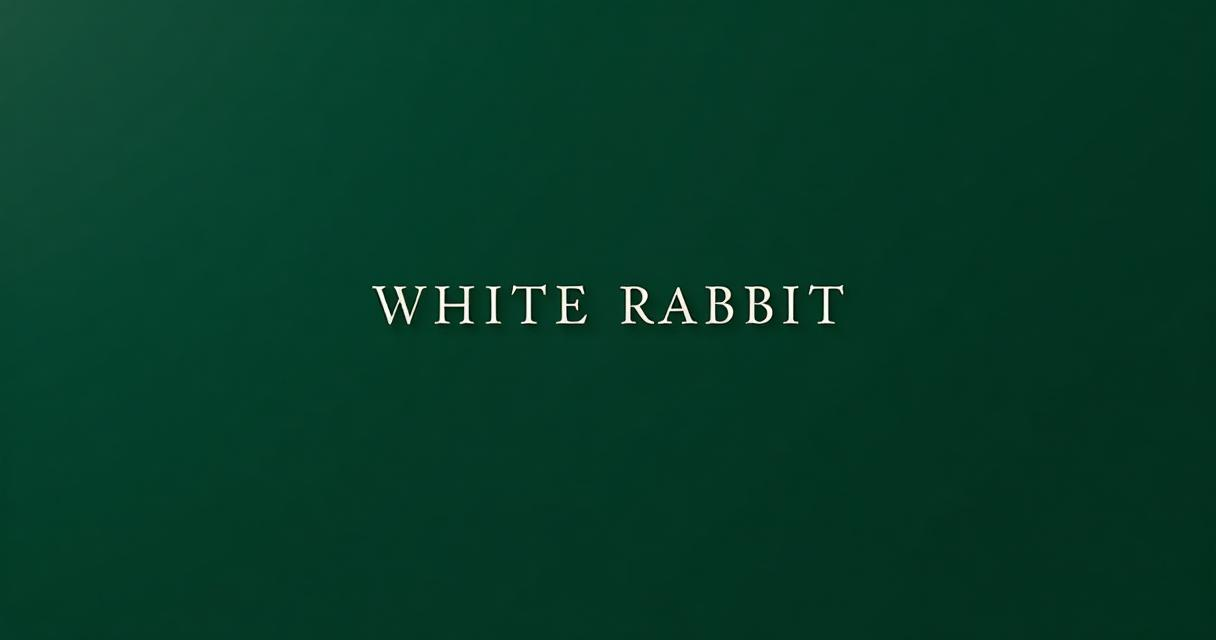
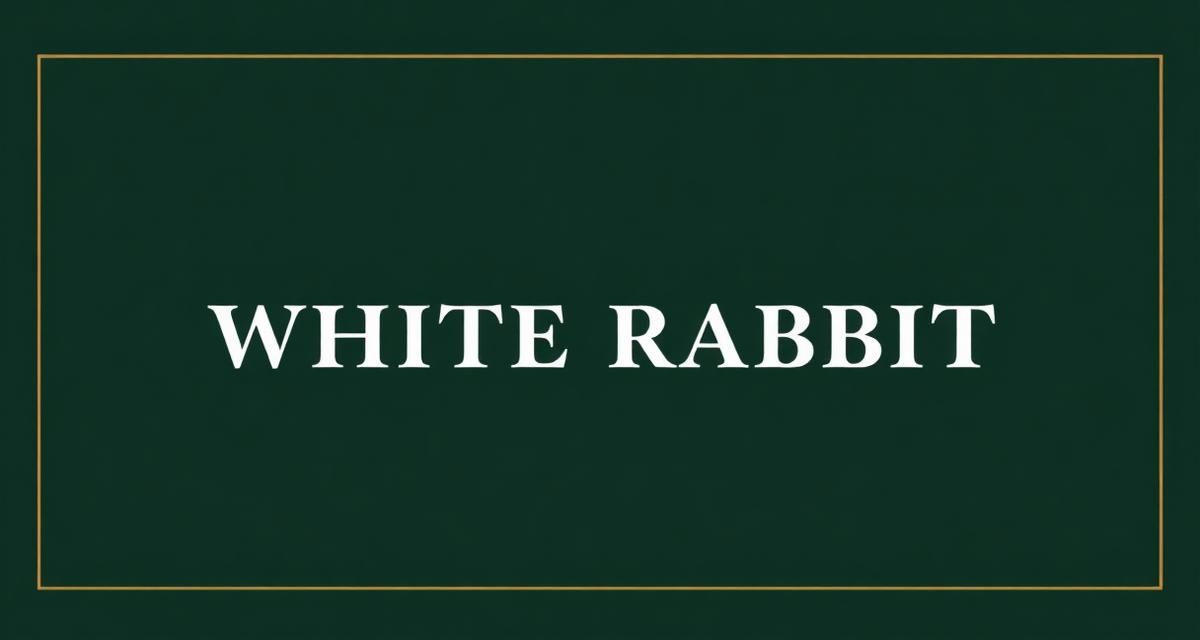
Changes

Changed region(s): [[0.0, 0.0, 0.9867, 0.9375], [0.1542, 0.4375, 0.8325, 0.5938]]

diff --git a/supabase/functions/og-image/index.ts b/supabase/functions/og-image/index.ts
@@ -1,116 +1,72 @@
-import satori from "npm:satori@0.12.1";
-import { Resvg, initWasm } from "npm:@resvg/resvg-wasm@2.6.2";
-
-let wasmInitialized = false;
-let fontCache: ArrayBuffer | null = null;
-
-async function ensureWasm() {
-  if (wasmInitialized) return;
-  const wasmUrl =
-    "https://unpkg.com/@aspect-build/resvg-wasm@0.1.0/resvg.wasm";
-  const res = await fetch(wasmUrl);
-  await initWasm(await res.arrayBuffer());
-  wasmInitialized = true;
-}
-
-async function loadFont(): Promise<ArrayBuffer> {
-  if (fontCache) return fontCache;
-  const res = await fetch(
-    "https://whiterabbitla.com/fonts/Ogg-Medium.ttf"
-  );
-  if (!res.ok) throw new Error("Font fetch failed");
-  fontCache = await res.arrayBuffer();
-  return fontCache;
-}
+const corsHeaders = {
+  "Access-Control-Allow-Origin": "*",
+  "Access-Control-Allow-Headers": "authorization, x-client-info, apikey, content-type",
+};
 
 Deno.serve(async (req) => {
   if (req.method === "OPTIONS") {
-    return new Response(null, {
-      headers: { "Access-Control-Allow-Origin": "*" },
-    });
+    return new Response(null, { headers: corsHeaders });
   }
 
   try {
     const url = new URL(req.url);
     const title = url.searchParams.get("title") || "White Rabbit Magic";
 
-    const [font] = await Promise.all([loadFont(), ensureWasm()]);
+    // Generate an SVG-based OG image (1200x630)
+    const fontSize = title.length > 50 ? 44 : 56;
+    const lines = wrapText(title, fontSize > 50 ? 28 : 22);
 
-    const svg = await satori(
-      {
-        type: "div",
-        props: {
-          style: {
-            display: "flex",
-            flexDirection: "column",
-            alignItems: "center",
-            justifyContent: "center",
-            width: "100%",
-            height: "100%",
-            backgroundColor: "#2D4A3E",
-            padding: "60px 80px",
-          },
-          children: [
-            {
-              type: "div",
-              props: {
-                style: {
-                  color: "white",
-                  fontSize: title.length > 50 ? 44 : 56,
-                  fontFamily: "Ogg",
-                  textAlign: "center",
-                  lineHeight: 1.3,
-                  maxWidth: "1000px",
-                },
-                children: title,
-              },
-            },
-            {
-              type: "div",
-              props: {
-                style: {
-                  color: "rgba(255,255,255,0.45)",
-                  fontSize: 16,
-                  letterSpacing: "8px",
-                  marginTop: "48px",
-                  fontFamily: "Ogg",
-                },
-                children: "WHITE RABBIT",
-              },
-            },
-          ],
-        },
-      },
-      {
-        width: 1200,
-        height: 630,
-        fonts: [
-          {
-            name: "Ogg",
-            data: font as ArrayBuffer,
-            style: "normal" as const,
-            weight: 500,
-          },
-        ],
-      }
-    );
+    const textY = 315 - (lines.length * fontSize * 1.3) / 2;
 
-    const resvg = new Resvg(svg, {
-      fitTo: { mode: "width" as const, value: 1200 },
-    });
-    const pngData = resvg.render();
-    const pngBuffer = pngData.asPng();
+    const textElements = lines
+      .map(
+        (line, i) =>
+          `<text x="600" y="${textY + i * fontSize * 1.3}" font-family="Georgia, 'Times New Roman', serif" font-size="${fontSize}" fill="white" text-anchor="middle" dominant-baseline="middle">${escapeXml(line)}</text>`
+      )
+      .join("\n    ");
 
-    return new Response(pngBuffer, {
+    const svg = `<svg xmlns="http://www.w3.org/2000/svg" width="1200" height="630" viewBox="0 0 1200 630">
+  <rect width="1200" height="630" fill="#2D4A3E"/>
+  <rect x="40" y="40" width="1120" height="550" fill="none" stroke="rgba(255,255,255,0.08)" stroke-width="1"/>
+  ${textElements}
+  <text x="600" y="${textY + lines.length * fontSize * 1.3 + 48}" font-family="Georgia, 'Times New Roman', serif" font-size="16" fill="rgba(255,255,255,0.4)" text-anchor="middle" letter-spacing="8">WHITE RABBIT</text>
+</svg>`;
+
+    return new Response(svg, {
       headers: {
-        "Content-Type": "image/png",
+        "Content-Type": "image/svg+xml",
         "Cache-Control": "public, max-age=604800, s-maxage=604800, immutable",
-        "Access-Control-Allow-Origin": "*",
+        ...corsHeaders,
       },
     });
   } catch (error) {
     console.error("OG image error:", error);
-    // Fallback: redirect to default static OG image
     return Response.redirect("https://whiterabbitla.com/og-image.jpg", 302);
   }
 });
+
+function wrapText(text: string, maxCharsPerLine: number): string[] {
+  const words = text.split(" ");
+  const lines: string[] = [];
+  let currentLine = "";
+
+  for (const word of words) {
+    if (currentLine.length + word.length + 1 > maxCharsPerLine && currentLine.length > 0) {
+      lines.push(currentLine);
+      currentLine = word;
+    } else {
+      currentLine = currentLine ? `${currentLine} ${word}` : word;
+    }
+  }
+  if (currentLine) lines.push(currentLine);
+  return lines;
+}
+
+function escapeXml(s: string): string {
+  return s
+    .replace(/&/g, "&amp;")
+    .replace(/</g, "&lt;")
+    .replace(/>/g, "&gt;")
+    .replace(/"/g, "&quot;")
+    .replace(/'/g, "&apos;");
+}

diff --git a/src/pages/Index.tsx b/src/pages/Index.tsx
@@ -86,14 +86,14 @@ const Index = () => {
         {/* Mobile: text overlaid at bottom of photo */}
         <div className="md:hidden absolute inset-0 z-10 flex flex-col items-center justify-end pb-10 px-6 text-center">
           <div className="absolute inset-0 bg-gradient-to-t from-forest-dark/80 via-forest-dark/20 to-transparent" />
-          <motion.p
+          <motion.h1
             className="relative text-2xl text-cream/90 tracking-wide font-bold font-serif drop-shadow-lg"
             initial={{ opacity: 0, y: 20 }}
             animate={{ opacity: 1, y: 0 }}
             transition={{ duration: 1, delay: 0.5 }}>
             Experience Magic<br />
             <span className="block mt-2">That Makes You Feel Truly Alive</span>
-          </motion.p>
+          </motion.h1>
           <motion.div
             initial={{ opacity: 0, y: 20 }}
             animate={{ opacity: 1, y: 0 }}
@@ -122,14 +122,14 @@ const Index = () => {
 
         {/* Desktop: text overlaid */}
         <div className="relative z-10 text-center px-6 max-w-4xl mx-auto hidden md:flex flex-col items-center justify-end pb-6 h-full">
-          <motion.p
+          <motion.h1
             className="text-4xl lg:text-5xl text-cream/90 tracking-wide font-bold text-center font-serif"
             initial={{ opacity: 0, y: 20 }}
             animate={{ opacity: 1, y: 0 }}
             transition={{ duration: 1, delay: 0.5 }}>
             Experience Magic<br />
             <span className="block mt-3">That Makes You Feel Truly Alive</span>
-          </motion.p>
+          </motion.h1>
           <motion.div
             initial={{ opacity: 0, y: 20 }}
             animate={{ opacity: 1, y: 0 }}
